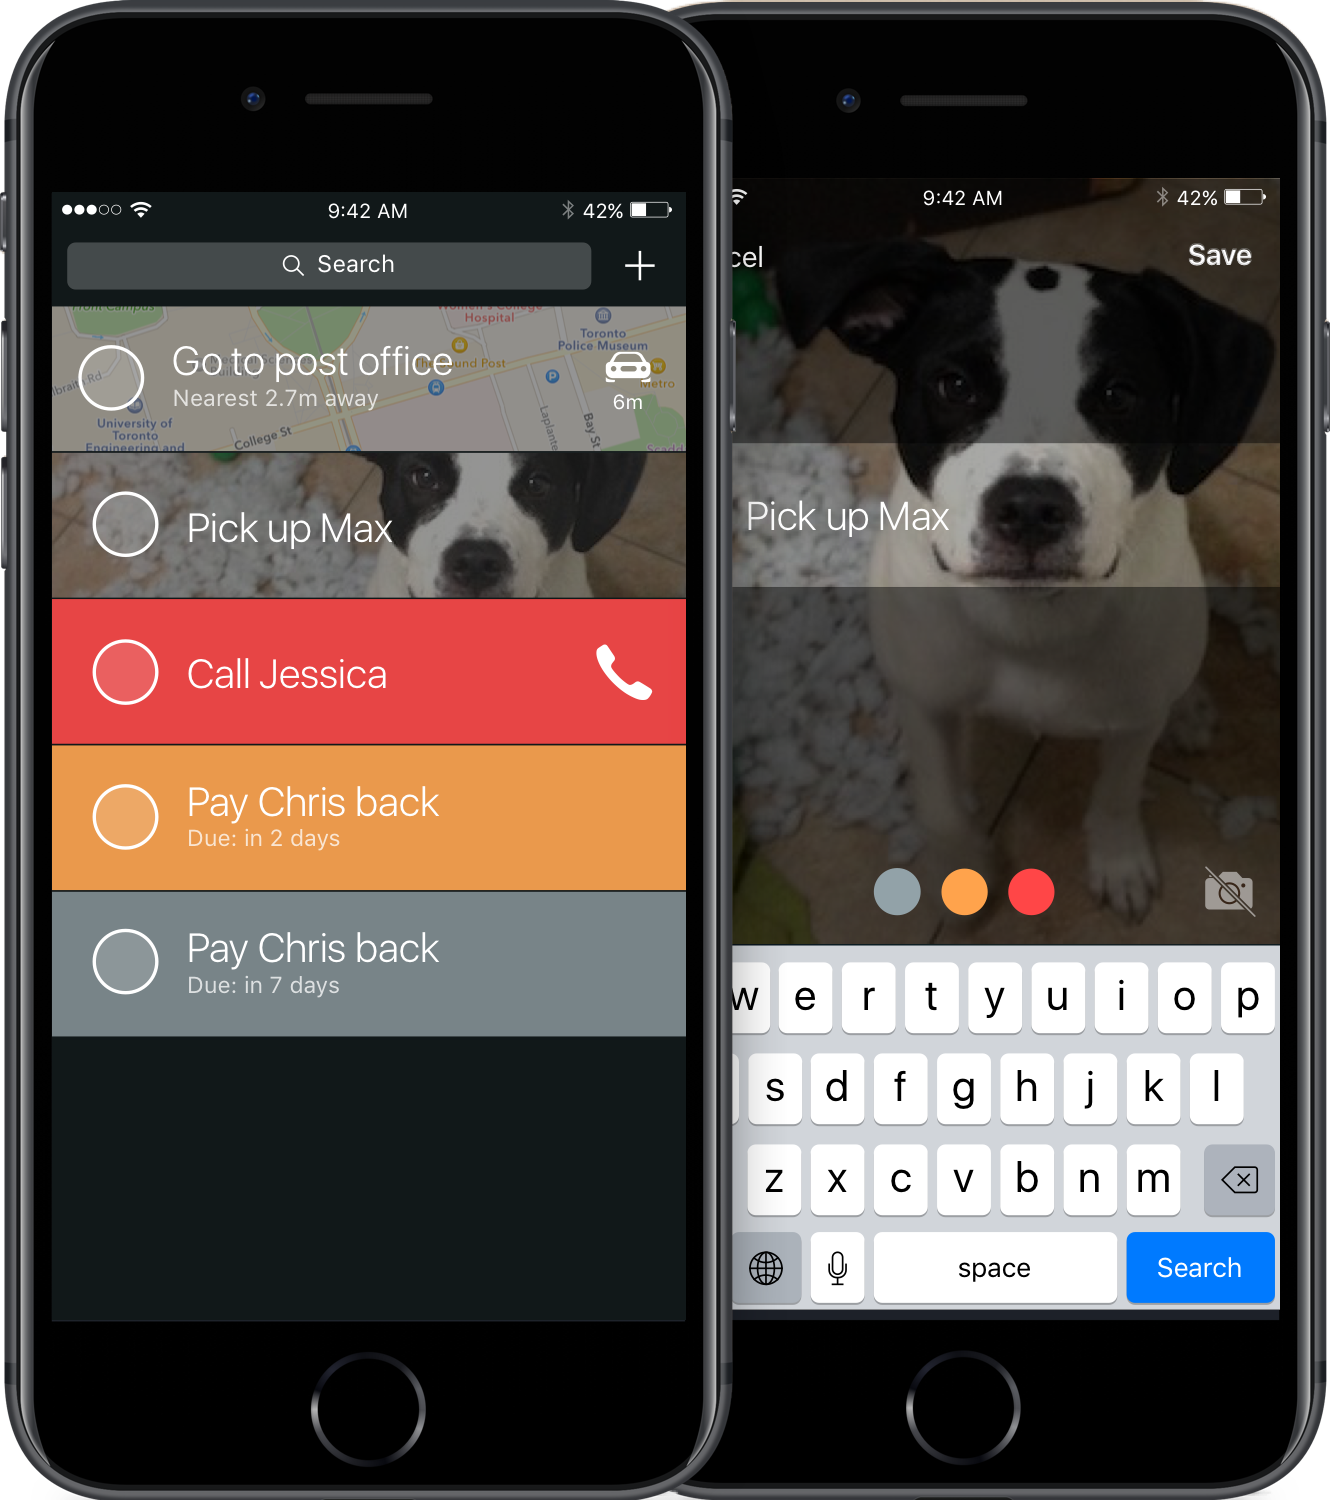
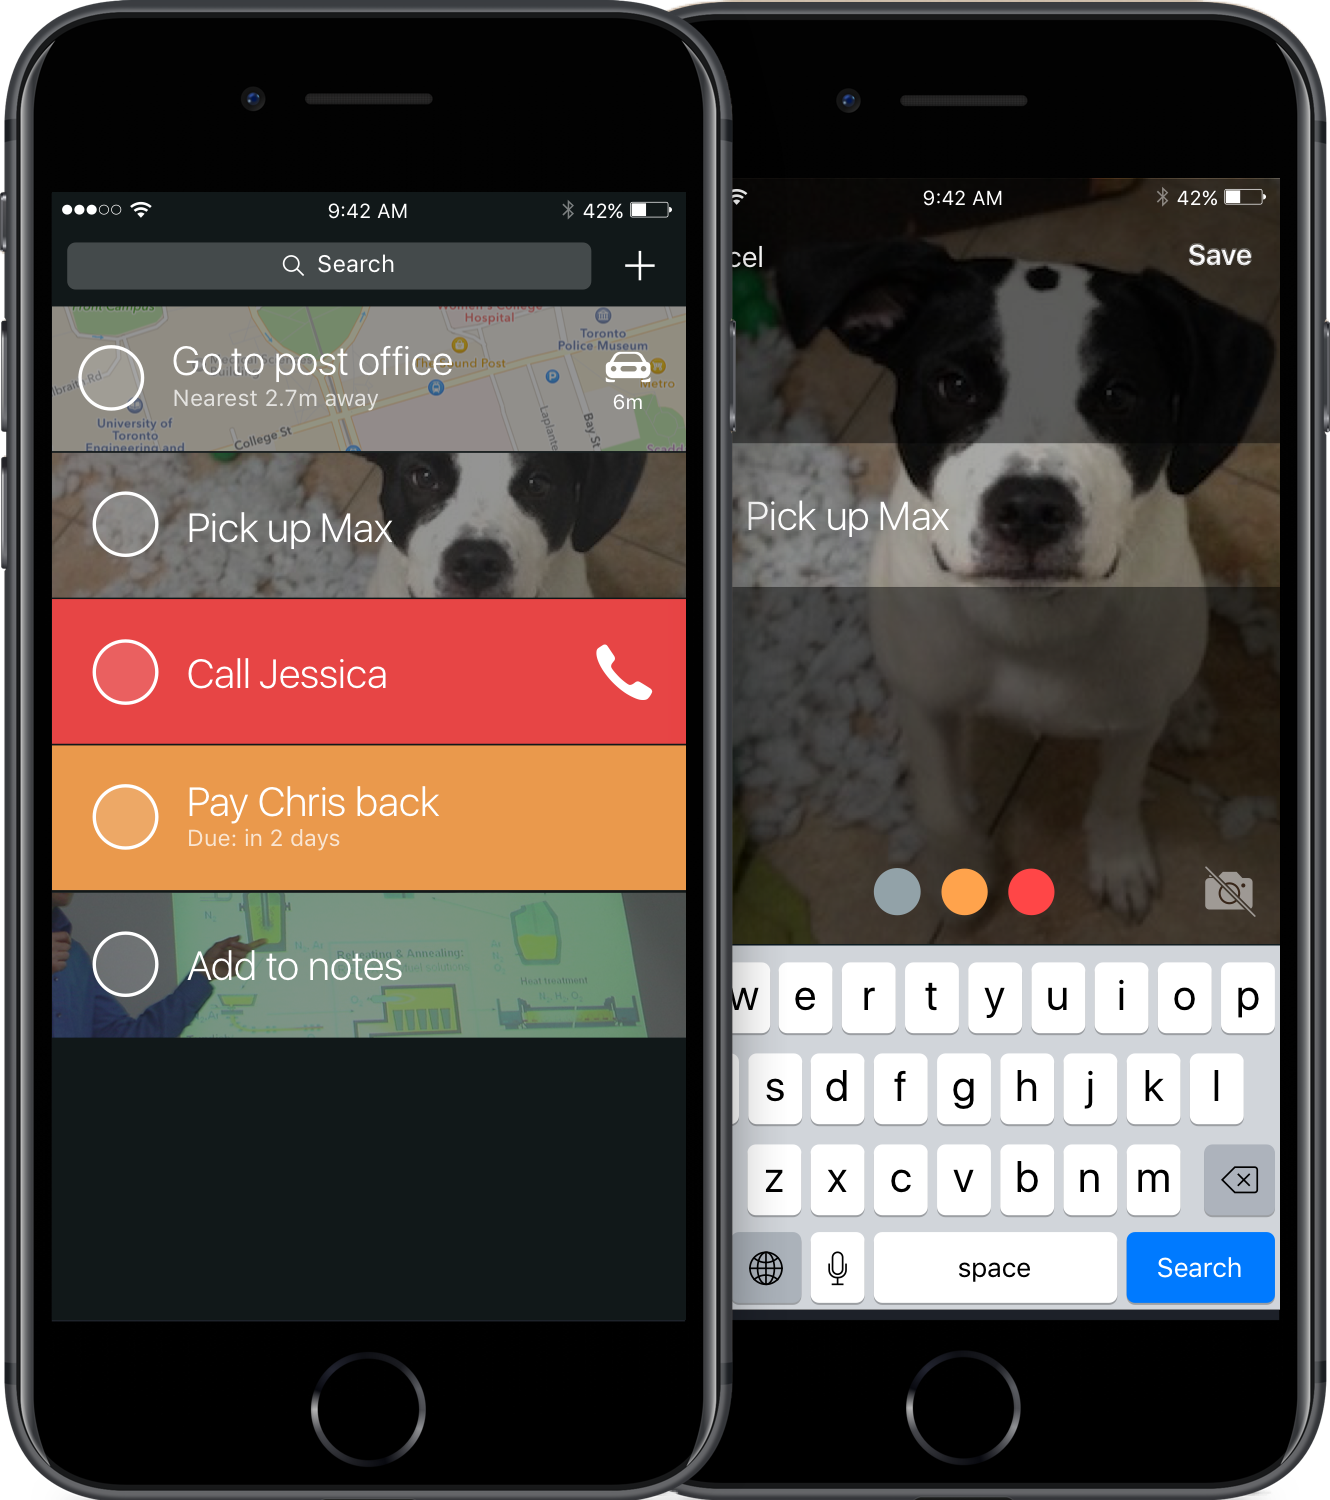
.

Changed region(s): [[0.0308, 0.5827, 0.5241, 0.7053]]

diff --git a/glance.html b/glance.html
@@ -33,15 +33,61 @@
       </div>
     </div>
 
-    <p class="intro">Glance was a project that attempted to be a visual todo app for the busy person. The app was focused around creating and viewing todos in such a way that's as frictionless as possible. Todos are supposed to be "glanceable." The project is now taking a different turn and there is more coming very soon!</p>
     <div class="horizDivider"></div>
+    <div class="horizDivider"></div>
+
+    <h2>The Problem</h2>
+      <p>Huge amount of junk photos build up in the camera roll. Since it's so easy to take photos of things to reference later, my camera roll is full of picture of posters, slides, and notes. These photos are rarely deleted, take up space, and don't look good next to photos of my vacation.</p>
+
+    <div class="horizDivider"></div>
+
+    <h2>Capture Temporary Info Easily</h2>
+    <p>Whether you're walking across campus and see a poster for a cool event, or see an important powerpoint slide, sometimes it's easiest to just take a photo. Glance lets you do just that without cluttering your camera roll.</p>
+    <div class="horizDivider"></div>
+
+    <div class="col-3 u-text-center" style="float:left">
+      <img src="images/projects/glance/notes.png" class="screen" width="90%"><br>
+      <small>These graphs look important</small>
+    </div>
+    <div class="col-3 u-text-center" style="float:left">
+      <img src="images/projects/glance/dog.png" class="screen" width="90%"><br>
+      <small>Pick up my dog from the vet</small>
+    </div>
+    <div class="col-3 u-text-center" style="float:left">
+      <img src="images/projects/glance/event.png" class="screen" width="90%"><br>
+      <small>I'll go to this event</small>
+    </div>
+
+    <div class="horizDivider"></div>
+    <div class="horizDivider"></div>
+
+    <h2>Easily See What's Due</h2>
+    <p>Large visuals and colors makes it easy to see what needs to be done.</p>
+    <div class="horizDivider"></div>
+
+    <div class="col-2 u-text-center" style="float:left">
+      <img src="images/projects/glance/with_notes_todo.png" class="screen" width="60%"><br>
+      <small>My todo list</small>
+    </div>
+    <div class="col-2 u-text-center" style="float:left">
+      <img src="images/projects/glance/orange_todo.png" class="screen" width="60%"><br>
+      <small>Make a new todo</small>
+    </div>
+
+    <div class="horizDivider"></div>
+
 
   </div>
   
   <div id="footer" class="">
     <div id="footerWrapper">
 
-
+      <div class="horizDivider"></div>
+      <div class="horizDivider"></div>
+      <div class="horizDivider"></div>
+      <div class="horizDivider"></div>
+      <div class="horizDivider"></div>
+      <div class="horizDivider"></div>
       <a href="yelp.html">
         <div class=" banner block hoverBlock">
         </div>
